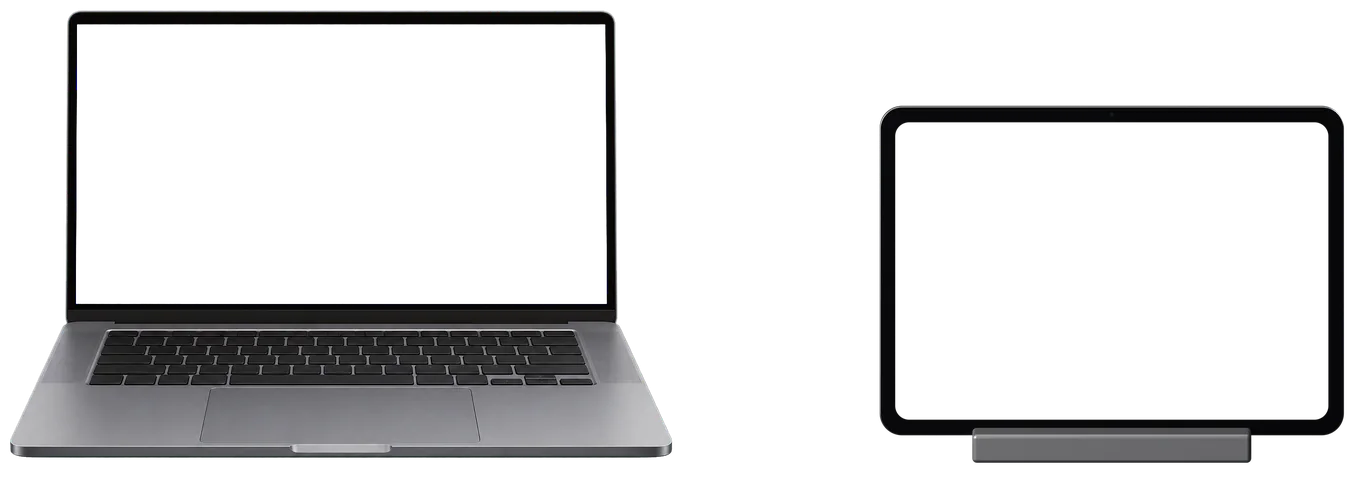
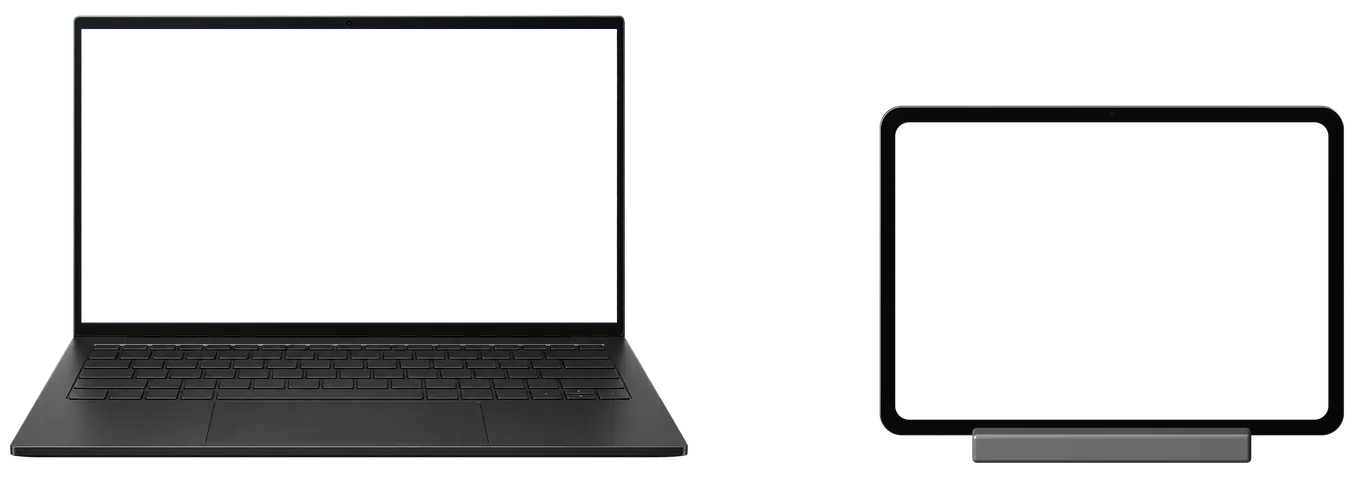
Make the hero's laptop a graphite Windows ultrabook
Regenerate the laptop render as an unbranded dark Windows machine with a function row and inverted-T arrows, recompose the screens and the cable to its new display and port, and update the hero's sizes and positions.

Changed region(s): [[0.0, 0.0, 0.5273, 0.949]]

diff --git a/docs/index.html b/docs/index.html
@@ -91,20 +91,20 @@
         <figure class="stage" data-mode="second" data-link="usb" aria-labelledby="stage-caption">
           <div class="rig">
             <div class="rig-laptop" aria-hidden="true">
-              <img class="scr on" data-for="second usb" src="assets/hero/laptop-second-usb.webp" srcset="assets/hero/laptop-second-usb.webp 534w, assets/hero/laptop-second-usb@2x.webp 1067w" sizes="(max-width: 1320px) 40vw, 520px" width="1067" height="564" fetchpriority="high" alt="">
-              <img class="scr" data-for="mirror usb" data-src="assets/hero/laptop-mirror-usb.webp" data-srcset="assets/hero/laptop-mirror-usb.webp 534w, assets/hero/laptop-mirror-usb@2x.webp 1067w" sizes="(max-width: 1320px) 40vw, 520px" width="1067" height="564" alt="">
-              <img class="scr" data-for="second wifi" data-src="assets/hero/laptop-second-wifi.webp" data-srcset="assets/hero/laptop-second-wifi.webp 534w, assets/hero/laptop-second-wifi@2x.webp 1067w" sizes="(max-width: 1320px) 40vw, 520px" width="1067" height="564" alt="">
-              <img class="scr" data-for="mirror wifi" data-src="assets/hero/laptop-mirror-wifi.webp" data-srcset="assets/hero/laptop-mirror-wifi.webp 534w, assets/hero/laptop-mirror-wifi@2x.webp 1067w" sizes="(max-width: 1320px) 40vw, 520px" width="1067" height="564" alt="">
+              <img class="scr on" data-for="second usb" src="assets/hero/laptop-second-usb.webp" srcset="assets/hero/laptop-second-usb.webp 539w, assets/hero/laptop-second-usb@2x.webp 1078w" sizes="(max-width: 1320px) 40vw, 520px" width="1078" height="593" fetchpriority="high" alt="">
+              <img class="scr" data-for="mirror usb" data-src="assets/hero/laptop-mirror-usb.webp" data-srcset="assets/hero/laptop-mirror-usb.webp 539w, assets/hero/laptop-mirror-usb@2x.webp 1078w" sizes="(max-width: 1320px) 40vw, 520px" width="1078" height="593" alt="">
+              <img class="scr" data-for="second wifi" data-src="assets/hero/laptop-second-wifi.webp" data-srcset="assets/hero/laptop-second-wifi.webp 539w, assets/hero/laptop-second-wifi@2x.webp 1078w" sizes="(max-width: 1320px) 40vw, 520px" width="1078" height="593" alt="">
+              <img class="scr" data-for="mirror wifi" data-src="assets/hero/laptop-mirror-wifi.webp" data-srcset="assets/hero/laptop-mirror-wifi.webp 539w, assets/hero/laptop-mirror-wifi@2x.webp 1078w" sizes="(max-width: 1320px) 40vw, 520px" width="1078" height="593" alt="">
             </div>
             <div class="rig-ipad" aria-hidden="true">
               <img class="scr extend on" data-for="second" src="assets/hero/ipad-second.webp" srcset="assets/hero/ipad-second.webp 436w, assets/hero/ipad-second@2x.webp 872w" sizes="(max-width: 1320px) 33vw, 430px" width="872" height="600" decoding="async" alt="">
               <span class="mirror">
-                <img class="scr" data-for="mirror usb" data-src="assets/hero/laptop-mirror-usb.webp" data-srcset="assets/hero/laptop-mirror-usb.webp 534w, assets/hero/laptop-mirror-usb@2x.webp 1067w" sizes="(max-width: 1320px) 33vw, 430px" width="1067" height="564" alt="">
-                <img class="scr" data-for="mirror wifi" data-src="assets/hero/laptop-mirror-wifi.webp" data-srcset="assets/hero/laptop-mirror-wifi.webp 534w, assets/hero/laptop-mirror-wifi@2x.webp 1067w" sizes="(max-width: 1320px) 33vw, 430px" width="1067" height="564" alt="">
+                <img class="scr" data-for="mirror usb" data-src="assets/hero/laptop-mirror-usb.webp" data-srcset="assets/hero/laptop-mirror-usb.webp 539w, assets/hero/laptop-mirror-usb@2x.webp 1078w" sizes="(max-width: 1320px) 33vw, 430px" width="1078" height="593" alt="">
+                <img class="scr" data-for="mirror wifi" data-src="assets/hero/laptop-mirror-wifi.webp" data-srcset="assets/hero/laptop-mirror-wifi.webp 539w, assets/hero/laptop-mirror-wifi@2x.webp 1078w" sizes="(max-width: 1320px) 33vw, 430px" width="1078" height="593" alt="">
               </span>
             </div>
             <img class="rig-devices" src="assets/hero/devices.webp" srcset="assets/hero/devices.webp 1355w, assets/hero/devices@2x.webp 2709w" sizes="(max-width: 1320px) 96vw, 1240px" width="2709" height="980" fetchpriority="high" alt="">
-            <img class="rig-cable" src="assets/hero/cable.webp" srcset="assets/hero/cable.webp 228w, assets/hero/cable@2x.webp 456w" sizes="(max-width: 1320px) 16vw, 210px" width="456" height="404" decoding="async" alt="">
+            <img class="rig-cable" src="assets/hero/cable.webp" srcset="assets/hero/cable.webp 218w, assets/hero/cable@2x.webp 437w" sizes="(max-width: 1320px) 16vw, 210px" width="437" height="404" decoding="async" alt="">
             <svg class="rig-air" viewBox="0 0 48 40" aria-hidden="true"><path class="a3" d="M3 14.5a30 30 0 0 1 42 0"/><path class="a2" d="M10 21.5a20 20 0 0 1 28 0"/><path class="a1" d="M17 28.5a10 10 0 0 1 14 0"/><circle cx="24" cy="35" r="2.6"/></svg>
           </div>
           <figcaption class="visually-hidden" id="stage-caption" aria-live="polite">A laptop running Windows and the EternalMonitor app, with an iPad beside it on a dock. <span data-say="second">The iPad is a second screen: the laptop keeps the app, and a reference sheet sits on the iPad.</span><span data-say="mirror" hidden>The iPad mirrors the laptop: both show the app and the reference sheet.</span> <span data-say="usb">A USB-C cable joins them.</span><span data-say="wifi" hidden>They are joined over Wi-Fi, with no cable.</span></figcaption>

diff --git a/docs/style.css b/docs/style.css
@@ -353,7 +353,7 @@ small { font-size: 0.875rem; }
 .rig { position: relative; aspect-ratio: 2709 / 980; }
 .rig > img, .rig-laptop, .rig-ipad, .rig-air { position: absolute; }
 .rig-devices { inset: 0; width: 100%; height: 100%; }
-.rig-laptop { left: 5.5%; top: 4.592%; width: 39.424%; height: 57.755%; }
+.rig-laptop { left: 5.906%; top: 5.612%; width: 39.793%; height: 60.51%; }
 .rig-ipad { left: 66.002%; top: 24.694%; width: 32.226%; height: 61.224%; }
 .rig-laptop, .rig-ipad { overflow: hidden; background: #000; }
 .rig .scr { position: absolute; inset: 0; width: 100%; height: 100%; opacity: 0; transition: opacity 0.5s ease, transform 0.6s var(--ease-out); }
@@ -365,7 +365,7 @@ small { font-size: 0.875rem; }
 /* As a second screen, the iPad's desktop arrives from the laptop's side. */
 .rig-ipad .extend { transform: translateX(-8%); }
 .rig-ipad .extend.on { transform: none; }
-.rig-cable { left: 48.21%; top: 52.857%; width: 16.833%; height: auto; transition: opacity 0.5s ease; }
+.rig-cable { left: 48.911%; top: 52.857%; width: 16.131%; height: auto; transition: opacity 0.5s ease; }
 .stage[data-link="wifi"] .rig-cable { opacity: 0; }
 /* Over Wi-Fi: the cable is gone and a calm signal sits between the devices. */
 .rig-air {

diff --git a/site-demos/capture/hero_compose.py b/site-demos/capture/hero_compose.py
@@ -25,7 +25,7 @@ HERE = pathlib.Path(__file__).resolve().parent
 DEMOS = HERE.parent
 OUT = DEMOS.parent / "docs" / "assets" / "hero"
 W, H = 2709, 980          # the canvas, which is the 2x picture
-LAPTOP_AT = (-153, 0)     # where the laptop render's corner sits on the canvas
+LAPTOP_AT = (-138, 4)     # where the laptop render's corner sits on the canvas
 BLEED = 3                 # screens run this far under their bezels
 
 
@@ -105,7 +105,7 @@ devices.alpha_composite(ipad)
 cable = np.array(load_layer(DEMOS / "renders" / "hero" / "cable.png")).astype(np.float32)
 cover = np.array(laptop)[..., 3].astype(np.float32) / 255
 near_port = np.zeros((H, W), bool)
-near_port[760:870, 1250:1360] = True
+near_port[770:880, 1260:1380] = True
 cable[..., 3] *= np.where(near_port, 1 - cover, 1)
 cable[..., 3] *= 1 - np.array(ipad)[..., 3].astype(np.float32) / 255
 cable[:, 1790:, 3] = 0  # the plug ends at the iPad's edge, x = 1760

diff --git a/site-demos/capture/hero_scene.py b/site-demos/capture/hero_scene.py
@@ -264,8 +264,8 @@ dock = box("dock", (dock_w, dock_d, dock_h), alu_dock, col_ipad, bevel=2.4)
 dock.location = (IPAD_LEFT + IPAD_W / 2, 8.0, dock_h / 2)
 
 # Plugs. The laptop's port is in its right side, under the deck's edge at
-# canvas (1314, 815); the iPad's is in the middle of its left edge.
-laptop_port = canvas_to_world(1314, 815, 76.6)
+# canvas (1332, 819); the iPad's is in the middle of its left edge.
+laptop_port = canvas_to_world(1332, 819, 76.6)
 laptop_port.x -= 4.0  # the plug's inner end hides behind the laptop's side
 laptop_frame = Matrix.Translation(laptop_port)
 start = plug("laptop-plug", laptop_frame, (rubber_boot, seam, steel), col_cable)
@@ -282,7 +282,7 @@ r = CABLE_R
 path = [
     start,
     start + Vector((9, -1, -1)),
-    Vector((393, 68, r + 0.8)),
+    Vector((395, 68, r + 0.8)),
     Vector((399, 44, r)),
     Vector((408, 14, r)),
     Vector((418, -6, r)),
